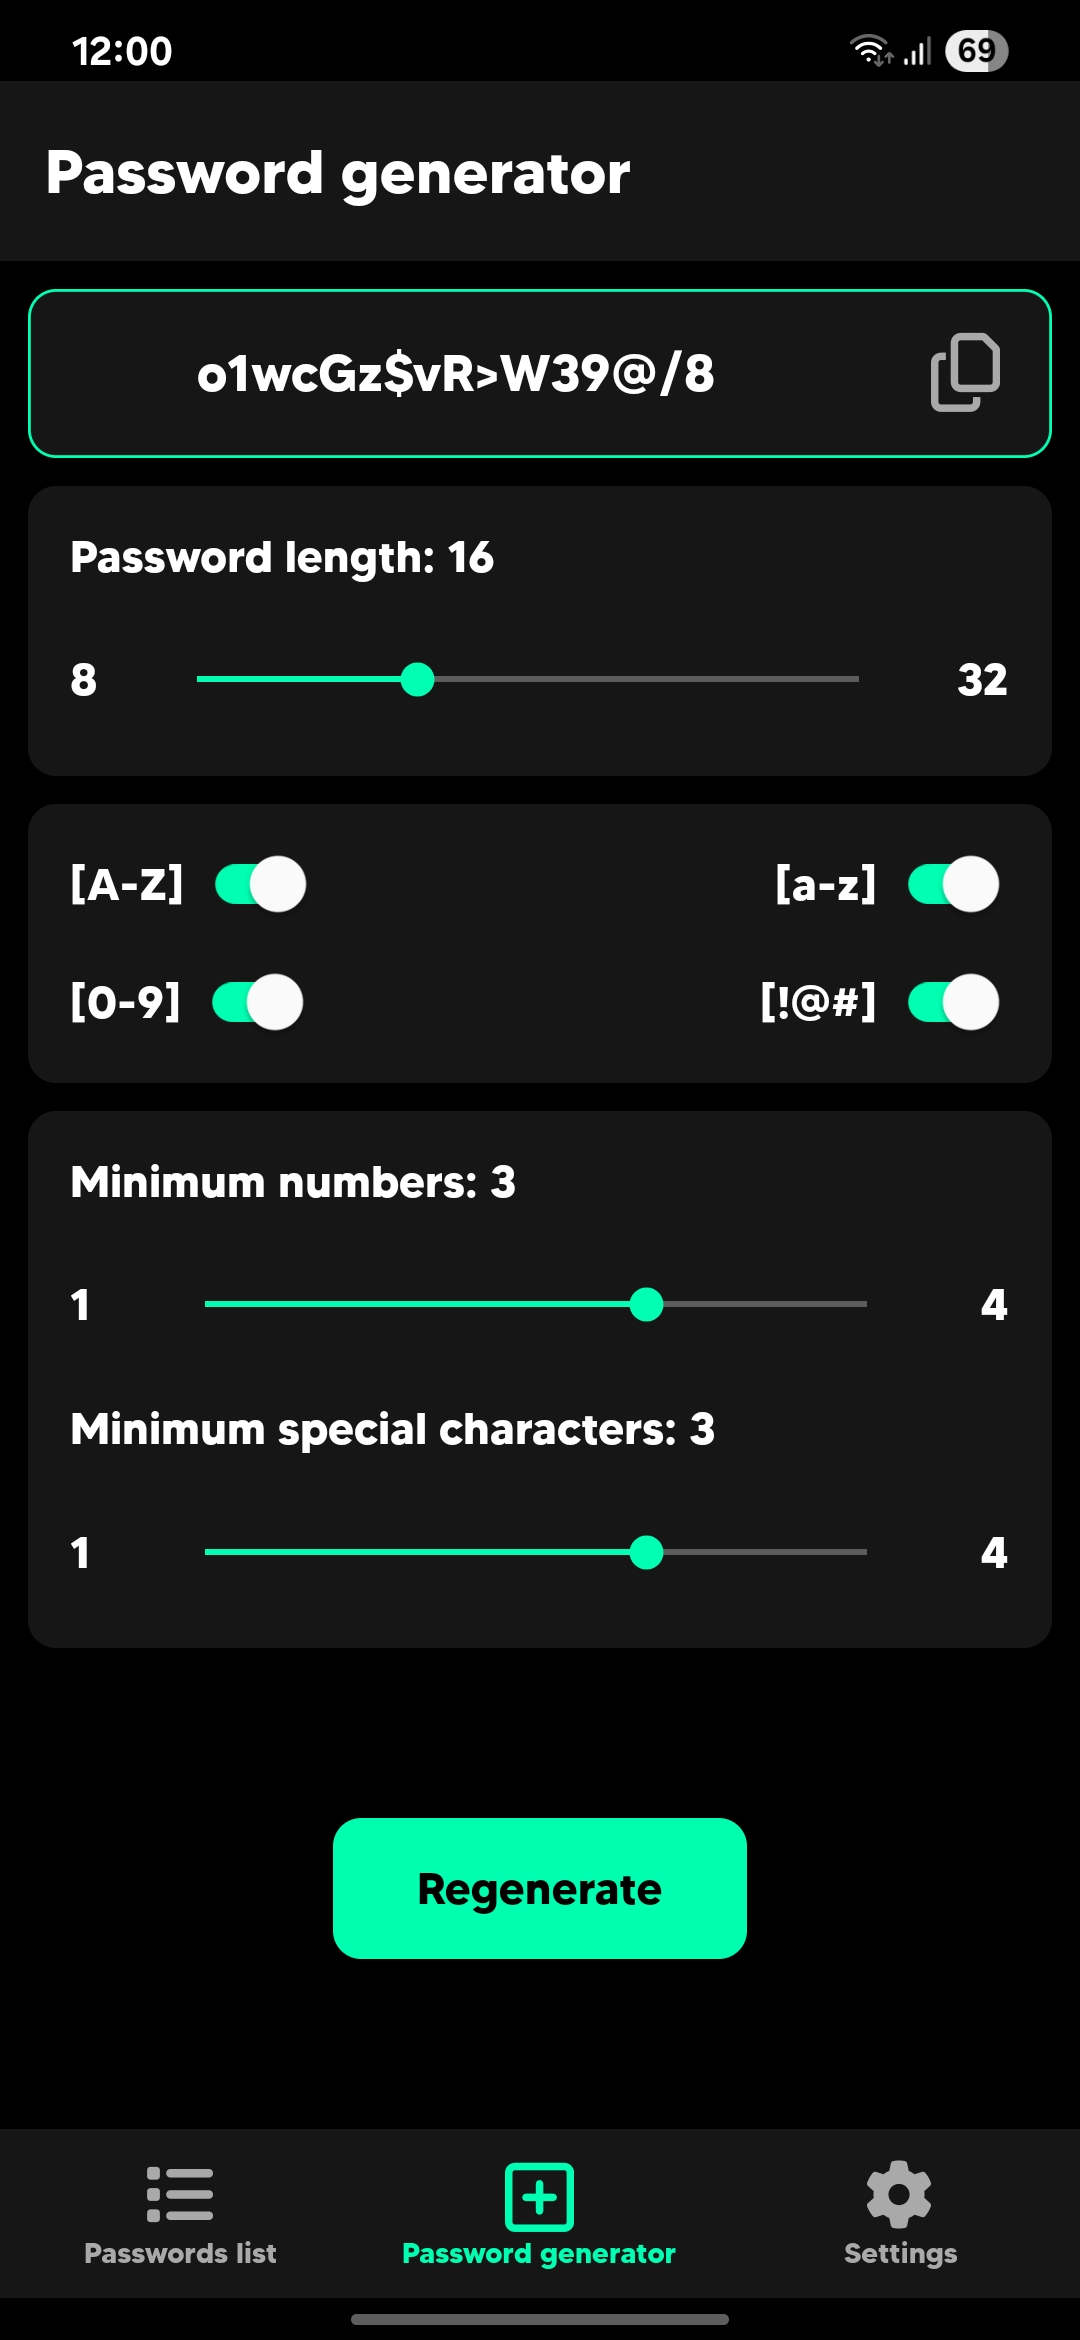
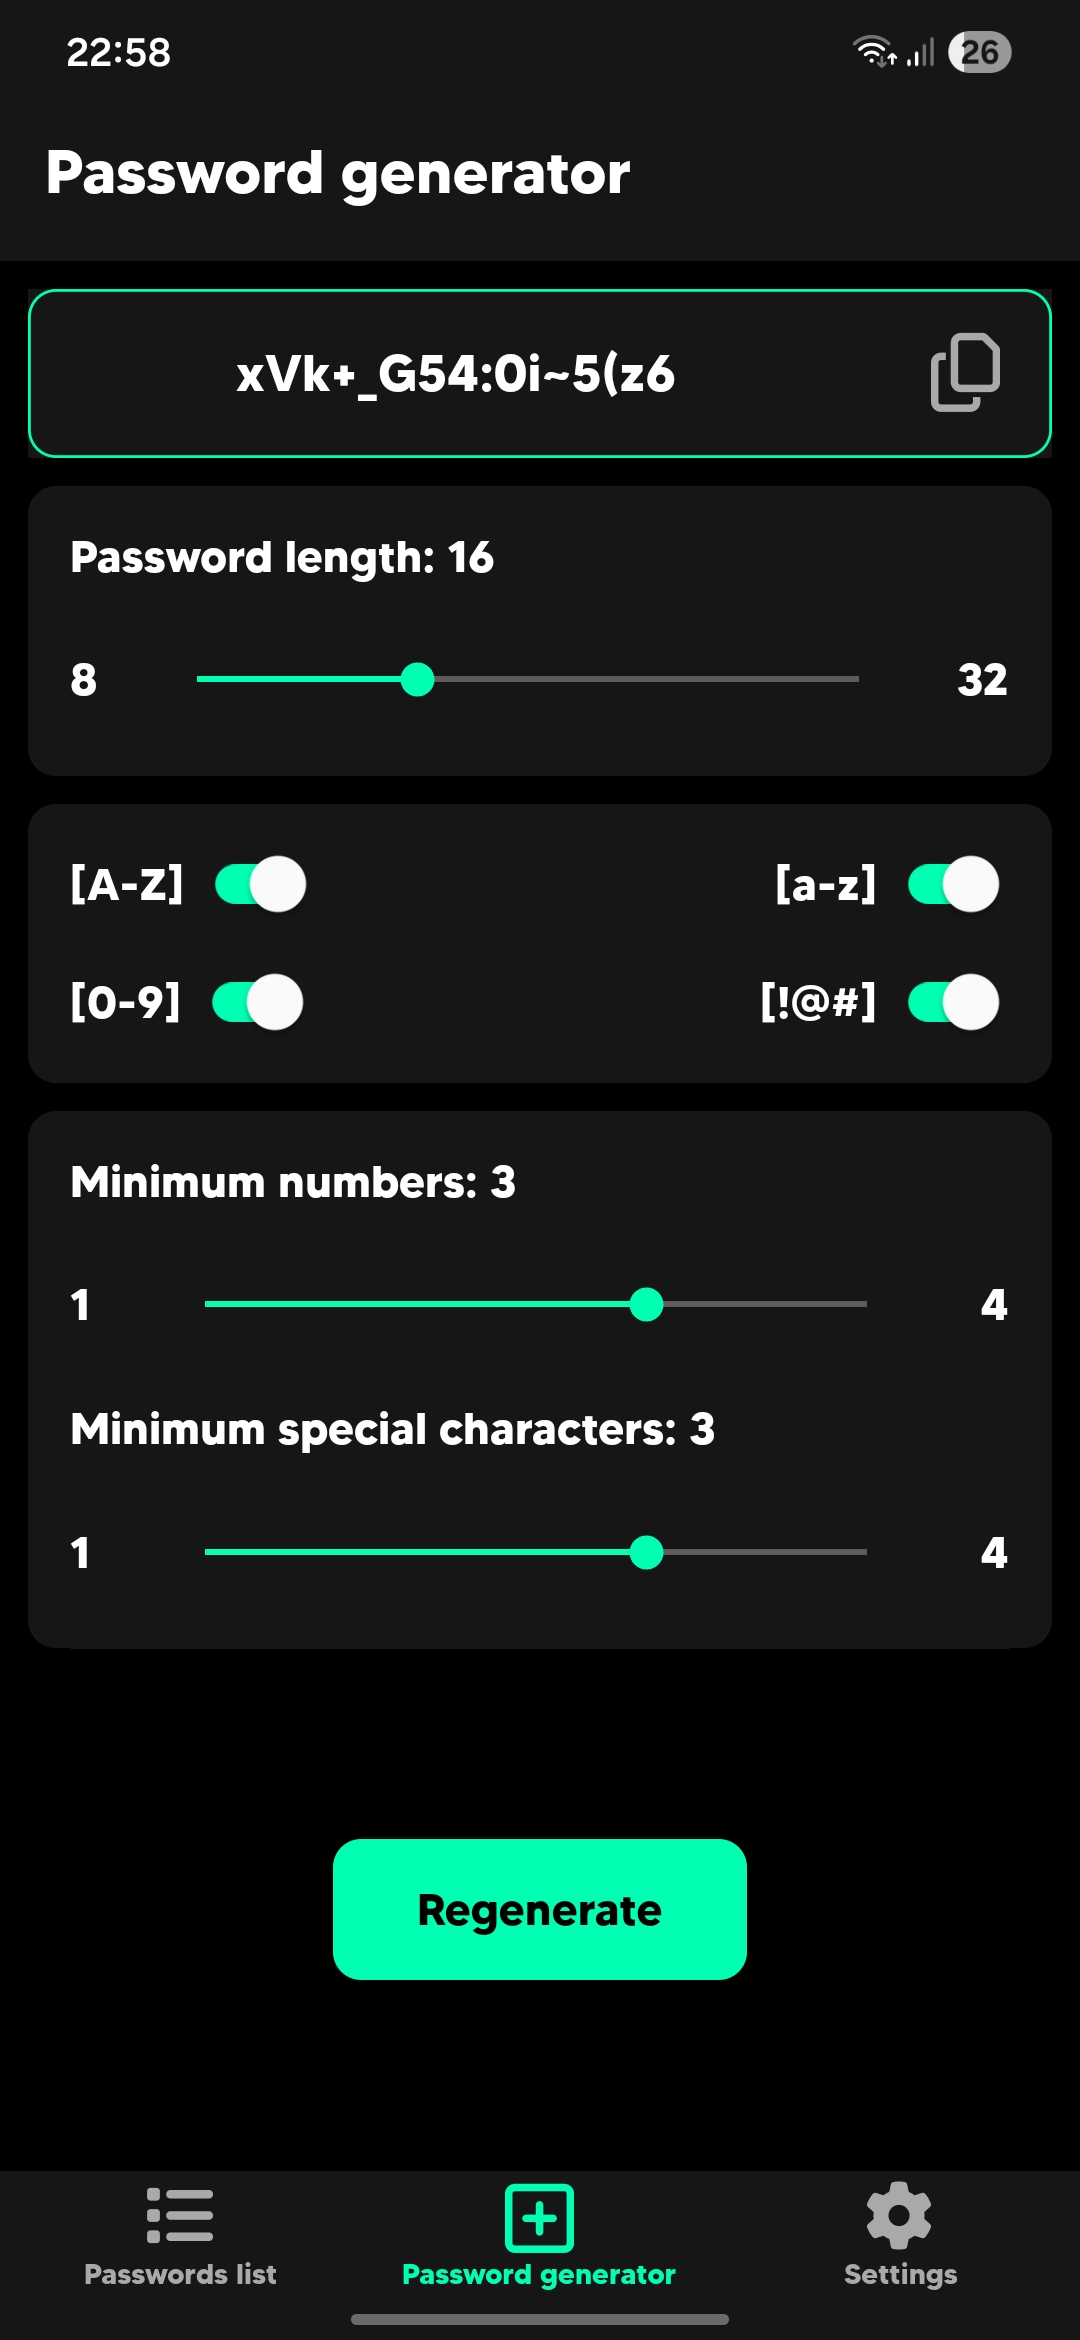
Update README

diff --git a/README.md b/README.md
@@ -5,8 +5,9 @@ A simple and secure password management app built with React Native and Expo.
 ## Features
 - quickly generate strong passwords up to 32 characters long,
 - add, view, edit and delete saved passwords,
+- import and export all passwords as CSV files,
 - secure storage using Expo SecureStore,
-- multi-language support (with more languages incoming in the future).
+- multi-language support,.
 
 ## Installation
 
@@ -38,7 +39,7 @@ You can download the latest Android APK from the [Releases](https://github.com/f
     <img src="assets/images/readme/passwords-list.jpg" alt="Passwords list screen" width="250"/>
     <img src="assets/images/readme/password-generator.jpg" alt="Password generator" width="250"/>
     <img src="assets/images/readme/settings.jpg" alt="Settings screen" width="250"/>
-</p>
+</div>
 
 ## Tech Stack
 
